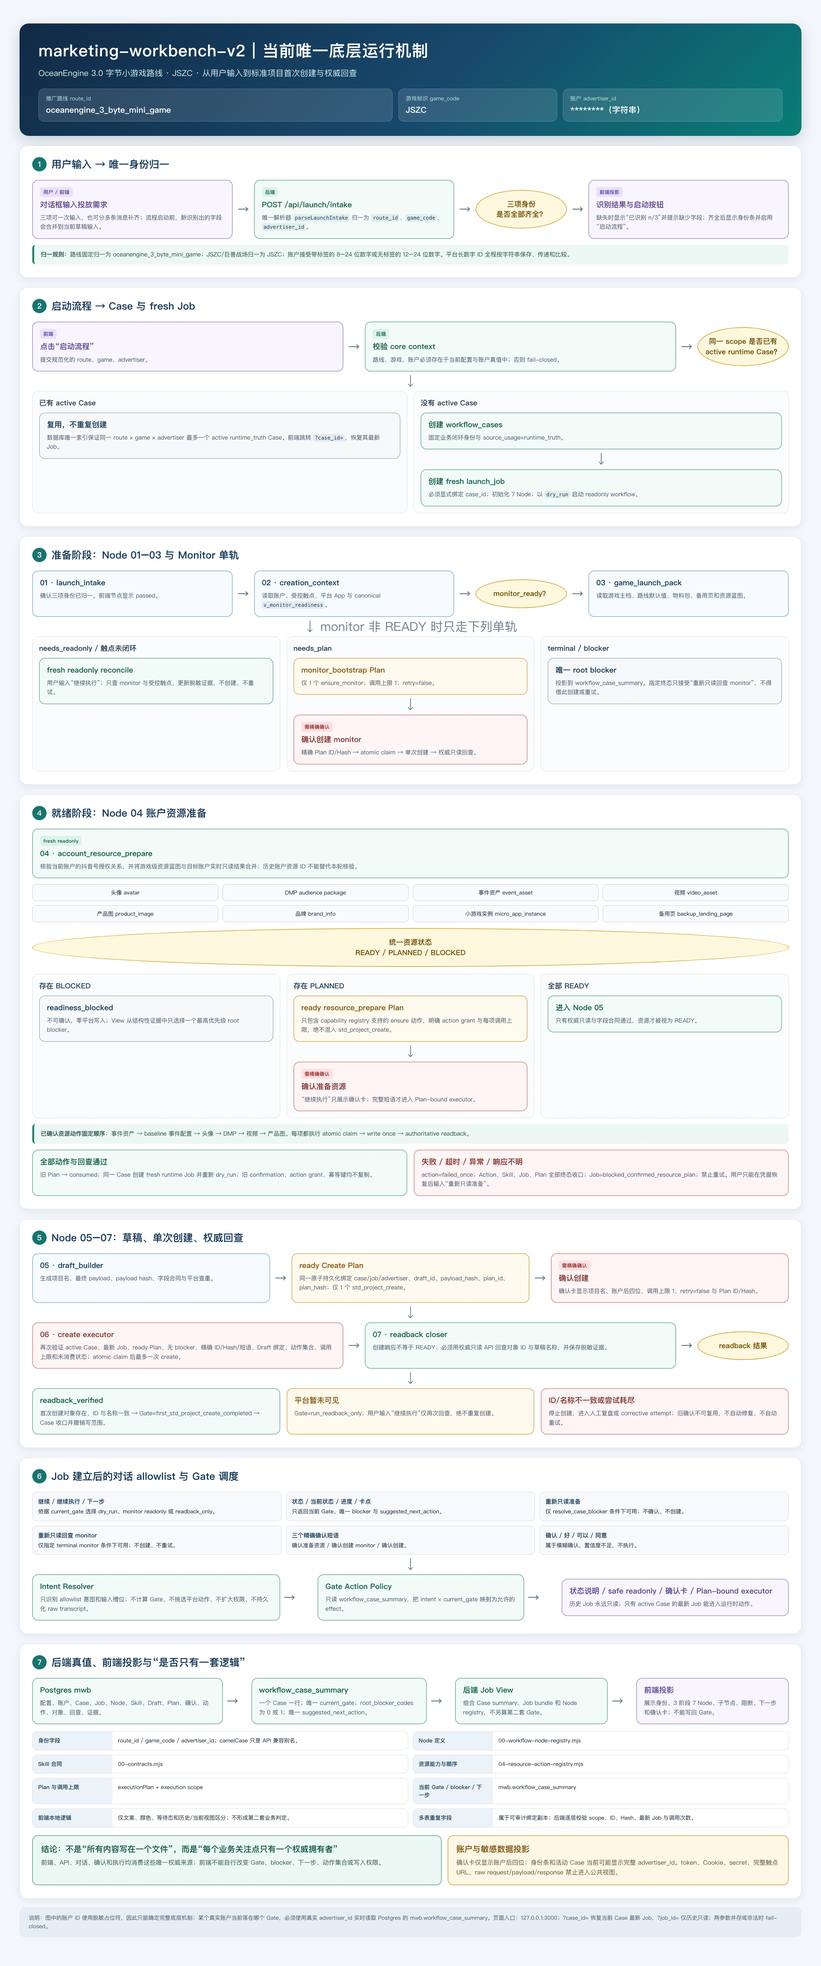
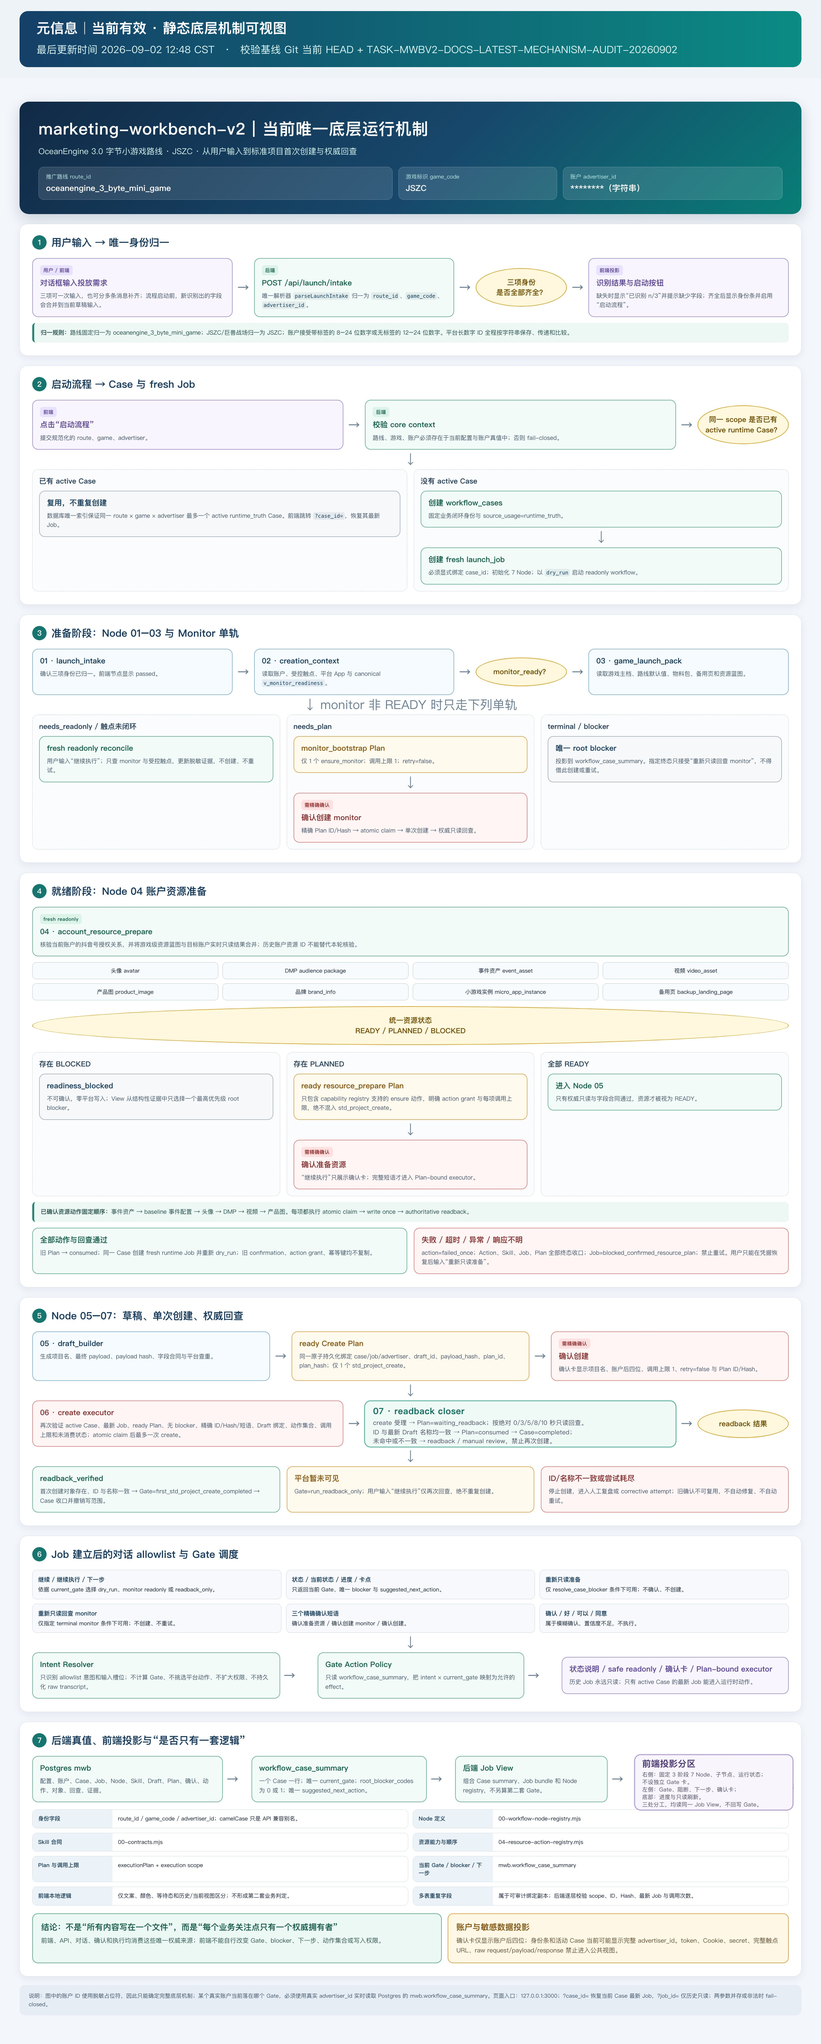
docs: align current mechanism references

diff --git a/docs/project-数据与报表契约.md b/docs/project-数据与报表契约.md
@@ -3,8 +3,8 @@
 | 元信息 | 值 |
 | --- | --- |
 | 文档状态 | 当前有效；静态数据与只读报表契约 |
-| 最后更新时间 | 2026-09-02 10:34 CST |
-| 校验基线 | Git 当前 HEAD + `TASK-MWBV2-CREATE-PLAN-DRAFT-BINDING-CLOSURE-20260902`；Postgres 33 张基础表、5 个 View、`workflow_case_summary` 24 列；最新 migration `067_active_runtime_workflow_case_scope.sql` |
+| 最后更新时间 | 2026-09-02 12:48 CST |
+| 校验基线 | Git 当前 HEAD + `TASK-MWBV2-DOCS-LATEST-MECHANISM-AUDIT-20260902`；Postgres 33 张基础表、5 个 View、`workflow_case_summary` 24 列；最新 migration `067_active_runtime_workflow_case_scope.sql` |
 | 适用范围 | v2 的配置、账户、Case、运行证据、外部动作、回查和当前运营状态投影 |
 | 权威来源 | `db/*.sql`、Postgres `mwb`、`src/repositories/postgresRepository.mjs`、节点合同与当前 Task/Manifest |
 | 重新校验条件 | 表/列/约束/View 改动，新的运行或资源子链落库，或 Case Gate/报表消费逻辑变化时 |
@@ -52,7 +52,7 @@ workflow_case_summary + v_monitor_readiness + 专项 readiness / monitor View
 |  | `launch_drafts`、`project_name_reservations` | Job Draft、Job×名称预留 | Node 05 | Create Plan、查重、创建执行 |
 |  | `dmp_package_push_plans` | Job×DMP 成员推送计划 | Node 04 | 已确认资源执行 |
 |  | `monitor_provision_runs`、`monitor_provision_attempts` | monitor provision cycle、cycle×attempt | Node 02 monitor 子链 | monitor 专项 View、诊断 |
-| L5 审计（6） | `launch_execution_plans`、`launch_confirmations` | Job×Plan 版本、Plan-bound confirmation；`plan_kind` 仅为 monitor bootstrap / resource / project / blocked；已确认 Resource Plan 成功或阻断后均须离开 `ready`，失败终态以 `consumed` + 脱敏 outcome metadata 保存，不代表执行成功 | Plan 编译、显式确认与 confirmed-resource 终态收口 | 执行 scope、Case summary |
+| L5 审计（6） | `launch_execution_plans`、`launch_confirmations` | Job×Plan 版本、Plan-bound confirmation；`plan_kind` 仅为 monitor bootstrap / resource / project / blocked；已确认 Resource Plan 成功或阻断后均须离开 `ready`，失败终态以 `consumed` + 脱敏 outcome metadata 保存，不代表执行成功；Create Plan 成功受理后为 `waiting_readback`，仅 verified 后为 `consumed` | Plan 编译、显式确认、confirmed-resource 终态与 Create 回查收口 | 执行 scope、Case summary |
 |  | `platform_actions`、`created_objects` | 外部 action×attempt、创建对象 | executor / create result mapping | Node 06–07、Case summary |
 |  | `readback_records`、`evidence_artifacts` | Job×回查、脱敏证据 | Node 04/07 与各 executor | Case summary、审计与诊断 |
 
@@ -115,7 +115,9 @@ route_id + game_code
 | --- | --- |
 | 写入来源 | 仅受控 migration、配置维护、runner、Skill、已确认 executor 和权威回查可写入对应真值表；Resource Plan 成功后可在同一 Case 建立 fresh runtime Job，但不得复制旧 Job 的 Plan/confirmation |
 | Create Plan/Draft 绑定 | 无最终 Draft 时 Create Plan 不得 ready。ready `std_project_create` Plan 与 `launch_drafts.payload_summary` 的 exact Plan ID/hash、`plan_derivation_status=passed` 必须在同一原子持久化中完成；确认 scope 复核该绑定、`draft_ready` Job 与 Node 04 passed。已确认但零 create action 的创建前阻断 Plan 只可收口为 consumed，confirmation 保留。 |
+| Create 回查与 Case 收口 | create 成功受理后 Plan 为 `waiting_readback`；Node 07 按绝对 `0/3/5/8/10` 秒只读回查，五次未命中保持待回查，ID/名称不一致转人工检查。只有同一 Case 最新 `runtime_truth` Job、已确认 Plan、唯一成功 action/对象、最新 Draft 与 ID/名称一致的 verified readback 同时成立，Plan 才可 `consumed`、Case 才可 `completed`；收口幂等且不改写历史 Node run。 |
 | 消费顺序 | UI/API/CLI/任务卡先读 `workflow_case_summary`；需要历史细节才按 `case_id` / `job_id` 读取底层表 |
+| 工作台投影 | `job.caseGate` 是 `workflow_case_summary` 的同一后端投影，不是第二套 Gate。右侧只展示注册表驱动的固定 3 阶段 7 Node；左侧对话展示动态 Gate/blocker/下一步与确认卡，底部进度栏保留计数和只读刷新。删除右侧独立 Gate 卡片不删除字段，也不改变节点等待态、确认资格或 API/View 合同。 |
 | 工作台恢复 | 唯一入口根页只读列出 active runtime Case；`?case_id=` 恢复活动 Case 的最新 Job，`?job_id=` 仅历史只读；两参数并存或非法时 fail-closed，不加载其他账户。`resolve_case_blocker` 的精确“重新只读准备”只消费当前 summary：已确认资源 Plan 停止时 Case lock 下创建 fresh Job 后 `dry_run`，其他 blocker 重跑当前 Job 的 `dry_run`；不复制旧 Plan/confirmation/action/grant，不产生平台写入。 |
 | Node 02 展示 | 最新 Case 的账户状态来自当前账户记录；触点与 monitor 来自 `v_monitor_readiness`；历史 Job 仅显示自身 Skill 快照，二者不得互相覆盖 |
 | 事件资产合同 | `account_resources.event_asset.metadata.event_asset_provision` 在同账户 App、唯一受控实例候选、版本化模板与官方创建合同通过后保存，以生成 event asset + baseline configs Plan；event asset detail 的 `micro_app_id` / `micro_app_instance_id` 归一后必须精确匹配 App + instance，allowlist 长数字 ID 在解析前无损保留为字符串；configs、携带 asset_id 的优化目标与 DBT 是后续 READY 回查，不保存完整 URL、raw request/response 或凭证。 |

diff --git a/docs/project-现在的逻辑图.md b/docs/project-现在的逻辑图.md
@@ -3,8 +3,8 @@
 | 元信息 | 值 |
 | --- | --- |
 | 文档状态 | 当前有效；静态底层机制说明 |
-| 最后更新时间 | 2026-09-02 10:34 CST |
-| 校验基线 | Git 当前 HEAD + `TASK-MWBV2-CREATE-PLAN-DRAFT-BINDING-CLOSURE-20260902`；`project.state.json.schema_version=2026-09-01.project-control-plane-v3`；最新 migration `067_active_runtime_workflow_case_scope.sql` |
+| 最后更新时间 | 2026-09-02 12:48 CST |
+| 校验基线 | Git 当前 HEAD + `TASK-MWBV2-DOCS-LATEST-MECHANISM-AUDIT-20260902`；`project.state.json.schema_version=2026-09-01.project-control-plane-v3`；最新 migration `067_active_runtime_workflow_case_scope.sql` |
 | 适用范围 | OceanEngine 3.0 字节小游戏路线的 Case、Job、资源准备、标准项目创建与回查机制 |
 | 权威来源 | `project.state.json` → 当前 Task/Manifest → 节点注册表与合同 → `db/*.sql` / Postgres `mwb` |
 | 重新校验条件 | 7 Node 注册表、资源能力、Execution Plan/确认规则、`workflow_case_summary` Gate 优先级、工作台 Case/Job 入口或 Schema/View 变化时 |
@@ -165,8 +165,9 @@ plannedActionGrant / executionGrantScope 的动作、次数、目标 Job 与 att
 | 已确认资源动作失败、超时或响应不明 | 当前 action 记为 `failed_once`，停止后续动作并执行可用的权威只读回查；父 action、blocked Skill、`blocked_confirmed_resource_plan` Job 与旧 Plan 必须终态收口，旧 Plan 进入 `consumed`；不自动重试 |
 | 每份 Create Plan | 仅调用一次 `std_project/create` |
 | 创建前 fail-closed 的修正 | 已确认但零 create action 的 Plan 收口为 consumed、Job 进入人工修正终态；必须新 Draft、payload hash、Plan、confirmation 和 attempt；最多 3 次，不自动重试 |
-| 已出现创建对象但未回查 verified | 只允许 `readback_only`，不得再次创建 |
-| 首次创建 + 对象存在 + 回查 verified | `first_std_project_create_completed`；Case 收口并撤销写范围 |
+| 创建成功受理、尚未 verified | Create Plan 进入 `waiting_readback`；Node 05/06 通过、Node 07 等待；只允许 `readback_only`，不得再次创建 |
+| Node 07 当轮同步回查 | 从本轮起点按绝对 `0/3/5/8/10` 秒调用 `std_project/list`，命中即停止；五次未命中保持待回查，ID/名称不一致转人工检查 |
+| 首次创建 + ID/最新 Draft 名称一致 + 回查 verified | Create Plan 进入 `consumed`；共享 finalizer 强校验最新 runtime Job、确认、成功 action、唯一对象、最新 Draft 与 verified readback 后，将 Case 收口为 `completed` 并投影 `first_std_project_create_completed` |
 
 平台长数字 ID 默认按字符串存储与比较；仅官方要求 number token 的字段使用专用无损 wire 编码，禁止经 JavaScript Number 截断。
 
@@ -195,6 +196,8 @@ plannedActionGrant / executionGrantScope 的动作、次数、目标 Job 与 att
   └─ ?job_id=：仅历史只读查看，Node 02 保留该 Job 的历史 Skill 状态
 
 同一 route×game×advertiser 最多一个 active runtime Case；重复启动请求恢复该 Case，不创建新 Case 或 fresh Job。case_id 与 job_id 同时出现、格式非法或目标不存在时 fail-closed，不能回退到其他账户。
+
+右侧 Workflow 面板是节点注册表的固定结构投影：只保留 3 阶段 7 Node、节点流、子节点详情和运行状态，标题后不再设置独立 Case Gate 卡片。动态 Gate、唯一 blocker 与下一步仍只读取同一 `job.caseGate` / `workflow_case_summary`：左侧对话展示状态说明和确认卡，底部操作栏保留“进度 n/7 + 刷新进度”。同一 Gate 数据仍控制节点等待态、确认资格与输入状态；去除重复卡片不等于删除后端字段或创建第二套前端逻辑。
 
 用户消息 → allowlist Intent Resolver → Gate Action Policy（只读 summary）
 → 状态说明 / safe readonly / 脱敏确认卡

diff --git a/docs/Solution Design.md b/docs/Solution Design.md
@@ -3,8 +3,8 @@
 | 元信息 | 值 |
 | --- | --- |
 | 文档状态 | 当前有效；方案设计规范 |
-| 最后更新时间 | 2026-09-02 10:34 CST |
-| 校验基线 | Git 当前 HEAD + `TASK-MWBV2-CREATE-PLAN-DRAFT-BINDING-CLOSURE-20260902`；当前逻辑图与数据报表契约 |
+| 最后更新时间 | 2026-09-02 12:48 CST |
+| 校验基线 | Git 当前 HEAD + `TASK-MWBV2-DOCS-LATEST-MECHANISM-AUDIT-20260902`；当前逻辑图、数据报表契约、7 Node 注册表与 migration `067` |
 | 重新校验条件 | 真值优先级、Task/Manifest、Plan/确认、平台写入或回查机制变化时 |
 
 用途：针对卡点、异常、需求、迁移或重要调整，形成可落地、可验证、可停止的方案。
@@ -114,6 +114,18 @@ Node 02 只公开一个 monitor facade。CLI 只保留状态、fresh readonly re
 `?case_id=` 的工作台底栏必须明确展示当前节点计数与当前 Case 的稳定状态：仅在前端请求尚未返回时显示“正在处理”；存在 `root_blocker_codes[0]` 时显示“已暂停”及已有脱敏 blocker 标题；存在确认卡时显示“待确认”；`first_std_project_create_completed` 时显示“已完成”。Gate、blocker、建议动作及最新 Job 仍只消费既有 `workflow_case_summary` 与 Job view，展示层不得自行计算 Gate。
 
 底栏提供一个只读“刷新进度”按钮。该按钮先读取当前 `case_id` 的 summary，再以其 `latest_job_id` 读取 Job view；若最新 Job 已变化，前端只在内存中切换到该 Job，Case URL 保持不变。前端命令或 dry-run 请求进行期间以 1.2 秒间隔复用该只读刷新；请求结束立即停止并做一次最终同步。历史 `?job_id=` 只刷新自身历史 Job，根页不轮询。不新增 API、Schema、View、后台任务或浏览器持久化，刷新不执行 workflow、不创建 Job、不确认 Plan、不产生平台写入。
+
+## 已批准设计：工作台 Gate 投影去重
+
+右侧 Workflow 面板保持固定结构，只展示唯一注册表提供的 3 阶段 7 Node、节点流、子节点详情与运行状态；标题后不得再插入独立 `case-gate` 卡片。动态 `currentGate`、唯一 blocker 与 `suggestedNextAction` 仍由后端同一 `job.caseGate` / `workflow_case_summary` 提供：左侧对话负责状态说明与确认卡，底部进度栏负责节点计数、稳定状态和手动只读刷新。
+
+这是纯展示层去重。`job.caseGate` 数据、Gate Action Policy、节点等待态、确认资格、输入状态、最新 Case/历史 Job 隔离、API 字段、数据库 View 与 Plan-bound executor 全部保持不变；不得通过前端复制 Gate 计算来填补被删除的卡片。
+
+## 已批准设计：标准项目回查与 verified Case 终态收口
+
+`std_project_create` 成功受理后不等于 READY：Create Plan 由 `ready` 进入 `waiting_readback`，Node 05/06 投影为已通过，Node 07 从本轮回查起点按绝对 `0/3/5/8/10` 秒调用既有 `std_project/list`，命中即提前停止。回查必须同时满足项目 ID 与最新 Draft 名称一致；五次未命中保持 `created_pending_readback` / `run_readback_only`，ID 或名称不一致进入人工检查，所有分支都禁止再次 create。
+
+verified 后由 `execute_once` 与后续 `readback_only` 共用的内部 finalizer 强校验：目标必须是同一 Case 的最新 `runtime_truth` Job、已确认 Create Plan、唯一成功 create action、唯一创建对象、最新 Draft，以及 ID/名称一致的 verified readback。通过后 Plan 才进入 `consumed`，active Case 才进入 `completed`；该收口幂等，不改写历史 Node run、不新建 confirmation/action/Job，也不产生额外平台请求。工作台完成态只读取刷新后的 `first_std_project_create_completed` 与 7/7 投影。
 
 ## 已批准设计：Create Plan 与最终 Draft 的发布绑定
 

diff --git a/tasks/TASK-MWBV2-DOCS-LATEST-MECHANISM-AUDIT-20260902.md b/tasks/TASK-MWBV2-DOCS-LATEST-MECHANISM-AUDIT-20260902.md
@@ -1,0 +1,42 @@
+# TASK-MWBV2-DOCS-LATEST-MECHANISM-AUDIT-20260902
+
+状态：completed
+
+## 授权来源
+
+用户于 2026-09-02 明确要求基于当前唯一底层机制审计并最小修正指定的核心文档，确保 docs 文档具有元信息与最后更新时间。
+
+## 唯一目标
+
+以当前 Git HEAD、`project.state.json`、7 Node 注册表、当前 Schema/migration 和已完成的工作台展示收敛为基线，校准六份指定文档及逻辑图图片；不改变运行代码、数据库、业务事实或权限机制。
+
+## 精确范围
+
+- 审计并按需修改 `AGENTS.md`。
+- 审计并按需修改 `docs/project-数据与报表契约.md`、`docs/project-现在的逻辑图.md`、`docs/project-lessons.md`、`docs/Solution Design.md`。
+- 为 `docs/project-现在的逻辑图.jpg` 补充可见元信息和最后更新时间；保留原逻辑图内容。
+- 建立、执行并关闭本 Task、Context Manifest 与 `project.state.json.active_task`。
+
+## 禁止
+
+- 修改 frontend、API、workflow、Schema、migration、数据库 View 或运行主链。
+- 调用外部平台、提交工作台命令、创建 runtime Job、消费 confirmation 或刷新凭据。
+- 把动态账户、Case、Job、Plan、资源或平台状态写入 Markdown。
+- 在 `project-lessons.md` 新增未经授权或未经验证的长期经验；只允许补齐元信息并修正与当前机制冲突的既有复用指引，历史事实不得改写。
+
+## 验收
+
+- 六份指定文档/图片均能明确看到元信息和最后更新时间。
+- Markdown 中的机制说明与当前唯一注册表、Case Gate 真值链、工作台投影边界和数据契约一致。
+- 数据表/View/summary 列数与 migration 基线经只读合同校验确认。
+- 逻辑图图片主体不被重绘或语义改写，只增加元信息区。
+- `project.state.json.active_task` 在完成后恢复为 `null`，且 `git diff --check` 通过。
+
+## 完成结果
+
+- 六份指定文档/图片均已补齐或刷新可见元信息与最后更新时间，校验基线统一指向本审计任务。
+- 统一写明工作台投影边界：右侧固定 3 阶段 7 Node，左侧承载动态 Gate/阻断/下一步/确认卡，底部保留进度与只读刷新；三者共享同一后端 Job View，不复制 Gate 计算。
+- 补齐最新标准项目回查机制：Create Plan `ready → waiting_readback → consumed`，绝对 `0/3/5/8/10` 秒只读回查，以及 verified 后强校验、幂等收口 runtime Case 为 `completed`。
+- JPG 仅增加顶部元信息栏，并定点校准“前端投影分区”和 Node 07 回查卡片；原有路线、7 Node、资源、Gate 与权限图主体保持不变。
+- Postgres 只读确认 33 张基础表、5 个 View、`workflow_case_summary` 24 列；仓库确认 68 个 migration、最新 067；注册表确认 7 Node、8 类必需资源、34 个可追踪子节点。
+- Schema、字段合同、工作流注册表、工作台进度/对话、标准项目回查与 verified Case 收口回归全部通过；平台写入与 token 刷新均为 0。

diff --git a/AGENTS.md b/AGENTS.md
@@ -3,8 +3,8 @@
 | 元信息 | 值 |
 | --- | --- |
 | 文档状态 | 当前有效；项目启动协议 |
-| 最后更新时间 | 2026-09-02 10:34 CST |
-| 校验基线 | Git 当前 HEAD + `TASK-MWBV2-CREATE-PLAN-DRAFT-BINDING-CLOSURE-20260902`；`project.state.json.schema_version=2026-09-01.project-control-plane-v3` |
+| 最后更新时间 | 2026-09-02 12:48 CST |
+| 校验基线 | Git 当前 HEAD + `TASK-MWBV2-DOCS-LATEST-MECHANISM-AUDIT-20260902`；`project.state.json.schema_version=2026-09-01.project-control-plane-v3`；最新 migration `067_active_runtime_workflow_case_scope.sql` |
 | 重新校验条件 | 项目控制面、运行主链、权限 Gate、Case/Job 入口或真值来源变化时 |
 
 定位：Codex 和协作者每次任务必须遵守的启动、真值、权限与闭环规则。动态业务事实只看 Postgres。
@@ -42,6 +42,8 @@
 ```
 
 Intent Resolver 只理解意图和输入槽位；不得计算 Gate、选择平台动作、扩大权限或持久化 raw transcript。
+
+右侧 Workflow 面板只展示由唯一节点注册表驱动的固定 3 阶段 7 Node、子节点详情与运行状态，不设置独立 Case Gate 卡片。动态 `currentGate`、唯一 blocker 与 `suggestedNextAction` 继续来自同一 `job.caseGate` / `workflow_case_summary`，由左侧对话和底部进度/刷新栏投影；删除重复展示不得删除 Gate 数据或其对确认卡、节点等待态和输入状态的控制。
 
 ready 的普通 `resource_prepare` Plan 使用精确短语“确认准备资源”进入既有 confirmed-resource orchestrator；全部动作和权威回查通过后，在同一 Case 创建 fresh runtime Job。下一份确认 Plan 只能包含一次 `std_project_create`。
 
@@ -96,6 +98,7 @@ frontend / API
 - 新 Skill 必须先在 `00-contracts.mjs` 声明 `nodeKey`，再由注册表校验。
 - `00-` 负责跨节点编排、公共合同、CLI 和 smoke；`01-07-` 负责对应 Node。
 - 工作台/API → 通用 Plan-bound executor 是唯一正式业务写入链。保留 CLI 仅限 dry-run、readback、状态或明确标注的安全诊断，不得成为旁路写入入口。
+- `std_project_create` 成功受理后，Create Plan 必须先进入 `waiting_readback`；Node 07 按本轮起点的绝对 `0/3/5/8/10` 秒只读回查，命中即停止。只有项目 ID 与最新 Draft 名称均一致的 verified 结果才能把 Plan 置为 `consumed`，并由共享强校验将 active runtime Case 收口为 `completed`；未命中、ID/名称不一致或响应异常只允许保持/进入只读回查或人工修正，不得再次创建。
 - `package.json` 只保留长期公开入口；一次性、历史 Task/账户绑定或已被主链替代的脚本移入 `scripts/archive/`，登记 `manifest.json` 并删除 package 入口。live `src/`、`scripts/` 与 package 均禁止 import/调用 archive。
 - `workflow_cases` 是业务闭环总控；新 `runtime_truth` Job 必须显式带 `case_id`。
 - `workflow_case_summary` 是当前 Gate、唯一 root blocker 和下一步的只读投影；消费端不得复制或自行计算。

diff --git a/docs/project-lessons.md b/docs/project-lessons.md
@@ -1,5 +1,12 @@
 # Project Lessons
 
+| 元信息 | 值 |
+| --- | --- |
+| 文档状态 | 当前有效；已验证可复用经验集 |
+| 最后更新时间 | 2026-09-02 12:48 CST |
+| 校验基线 | Git 当前 HEAD + `TASK-MWBV2-DOCS-LATEST-MECHANISM-AUDIT-20260902`；当前逻辑图、数据报表契约、7 Node 注册表与既有回归证据 |
+| 重新校验条件 | 新增可复用闭环经验、接口/字段合同变化，或既有经验被当前代码、Schema、官方资料或真实回查否定时 |
+
 ## 使用规则
 
 本文件只记录已经由真实证据、机制验证和回归测试支持的可复用经验。它用于定位问题和选择解决思路；账户实时状态、job、计划、平台动作和证据仍以 `project.state.json`、Postgres、active task / manifest 与当前代码为准。
@@ -210,6 +217,8 @@ Node 4 的资源 Skill 独立判断：先查资源归属和流转路径，再查
 
 在独立、单次、受控的 `POST /open_api/v3.0/std_project/create/` 验证中，平台返回 HTTP `200`、业务码 `0`、项目对象存在；随后 `0/10/30` 秒三次 `std_project/list` 回查均确认创建。整个 Job 只有一次人工确认、一次 create action、一条汇总回查记录；没有 Promotion、资源、预算、出价或自动重试写入。
 
+上句 `0/10/30` 只记录 2026-08-30 案例当时的真实证据，不是当前调度合同。当前机制在 create 成功受理后将 Plan 置为 `waiting_readback`，并按本轮起点的绝对 `0/3/5/8/10` 秒只读回查；ID 与最新 Draft 名称均一致时才 `consumed` 并收口 Case，未命中或不一致均不得再次创建。
+
 成功请求相对已冻结的上一基线，唯一业务变化为：在 `audience.hide_if_converted=NO_EXCLUDE` 下，**完全省略** `audience.converted_time_duration`。该结果证明“该基线减去该字段”的组合可被平台接受；不证明此前失败必然或仅由此字段导致。
 
 下列内容是本案例的精确、可复用字段形态；动态 ID、名称、完整 URL、监测参数、素材文本和原始请求不记录在此，必须在下次创建时从目标账户的当轮 Postgres 只读核验重新解析。
@@ -258,7 +267,7 @@ Node 4 的资源 Skill 独立判断：先查资源归属和流转路径，再查
   -> 精确展示预算、出价、ROI、排期与唯一差异
   -> 人工确认
   -> 原子 claim 的一次 create
-  -> 0/10/30 秒 list 回查
+  -> 0/3/5/8/10 秒绝对时间点 list 回查（命中即停止）
   -> 只保存脱敏摘要、hash、状态与必要对象存在性
 ```
 
